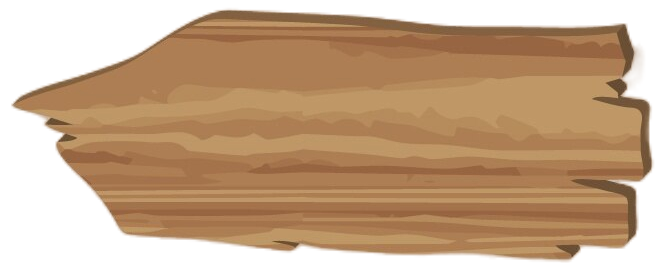
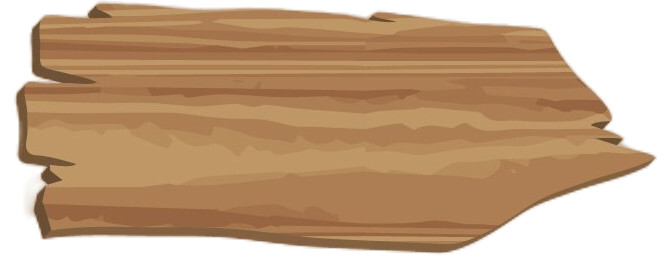
Add 4 different potential styles for wood sign

diff --git a/client/src/components/HideyPanel/HideyPanel.css b/client/src/components/HideyPanel/HideyPanel.css
@@ -43,7 +43,7 @@
     border-left-color: transparent;
   }
 
-  100% {
+  99% {
     width: 100%;
     height: 100%;
     border-top-color: black;
@@ -117,39 +117,57 @@
   box-shadow: 0 2px 2px 2px #1f0904;
 } */
 
-/* HANDDRAWN WOOD PANEL */
+/* WOOD GRAIN PANEL */
 .hidey-panel {
   transform: rotateX(90deg);
   visibility: hidden;
   transform-origin: top;
   will-change: transform;
   width: 100px;
-  height: 110px;
-  background-size: 100px 110px;
-  /* background-image: url("https://images.unsplash.com/photo-1564512533667-015a90133f04?q=80&w=3540&auto=format&fit=crop&ixlib=rb-4.0.3&ixid=M3wxMjA3fDB8MHxwaG90by1wYWdlfHx8fGVufDB8fHx8fA%3D%3D"); */
-  background-image: url("../../assets/handdrawnsign1.png");
-  /* border-radius: 3px; */
-  position: absolute;
-  background-position: center center;
+  height: 50px;
+  background-size: 100px 50px;
+  background-image: url("../../assets/woodgrain.jpg");
+  background-position: bottom center;
   background-repeat: no-repeat;
-  /* background-size: cover; */
-  /* box-shadow: 0 2px 2px 2px #1f0904; */
+  border-radius: 3px;
+  position: absolute;
+  box-shadow: 0 3px 1px 1px #1f0904;
 }
 
-/* .draw-outline-container:hover .hidey-panel {
-  transform: perspective(500px) rotateX(0deg);
-  transition: 0.9s ease-in 0s;
-  transition-timing-function: cubic-bezier(0.1, 0.7, 1, 0.1);
-  transition-delay: 0.8s;
-  transform-origin: top; 
-  visibility: visible;
+/* HANDDRAWN WOOD PANEL */
+/* .hidey-panel {
+  transform: rotateX(90deg);
+  visibility: hidden;
+  transform-origin: top;
+  will-change: transform;
+  width: 80px;
+  height: 80px;
+  background-size: 80px 80px;
+  background-image: url("../../assets/handdrawnsign1.png");
   position: absolute;
+  background-position: bottom center;
+  background-repeat: no-repeat;
+} */
+
+/* ARROW WOOD PANEL */
+/* .hidey-panel {
+  transform: rotateX(90deg);
+  visibility: hidden;
+  transform-origin: top;
+  will-change: transform;
+  width: 100px;
+  height: 30px;
+  background-size: 100px 30px;
+  background-image: url("../../assets/arrowsign1.png");
+  position: absolute;
+  background-position: bottom center;
+  background-repeat: no-repeat;
 } */
 
 .draw-outline-container:hover .hidey-panel {
   animation: swinging 2s linear forwards;
   visibility: visible;
-  animation-delay: 0.8s;
+  animation-delay: 0.9s;
 }
 
 .draw-outline-container:not(:hover) .hidey-panel {

diff --git a/client/src/components/HideyPanel/HideyPanel.tsx b/client/src/components/HideyPanel/HideyPanel.tsx
@@ -4,13 +4,15 @@ import { useAuth0 } from "@auth0/auth0-react";
 import LoginButton from "../Buttons/LoginButton/LoginButton";
 
 const HideyPanel = () => {
-  const { loginWithRedirect, isAuthenticated } = useAuth0();
+  const { isAuthenticated } = useAuth0();
 
   return (
     !isAuthenticated && (
       <div className="draw-outline-container">
         <div className="hidey-panel-container">
-          <div className="hidey-panel" />
+          <div className="hidey-panel">
+            <LoginButton></LoginButton>
+          </div>
         </div>
       </div>
     )

diff --git a/client/src/components/Buttons/LoginButton/LoginButton.tsx b/client/src/components/Buttons/LoginButton/LoginButton.tsx
@@ -7,7 +7,7 @@ const LoginButton = () => {
   return (
     !isAuthenticated && (
       <div>
-        <button className="btn" onClick={() => loginWithRedirect()}>
+        <button className="btn-login" onClick={() => loginWithRedirect()}>
           Sign In
         </button>
       </div>
